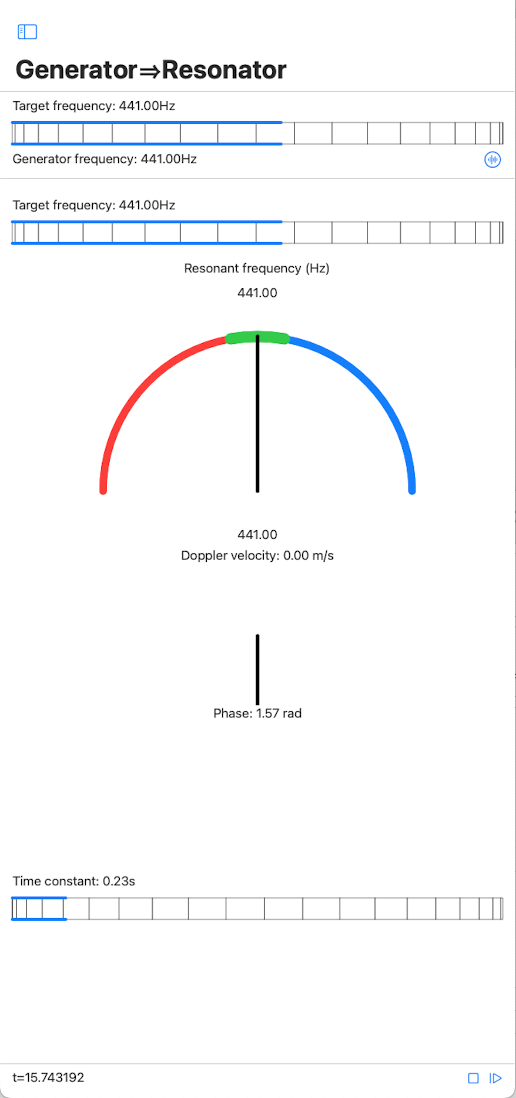
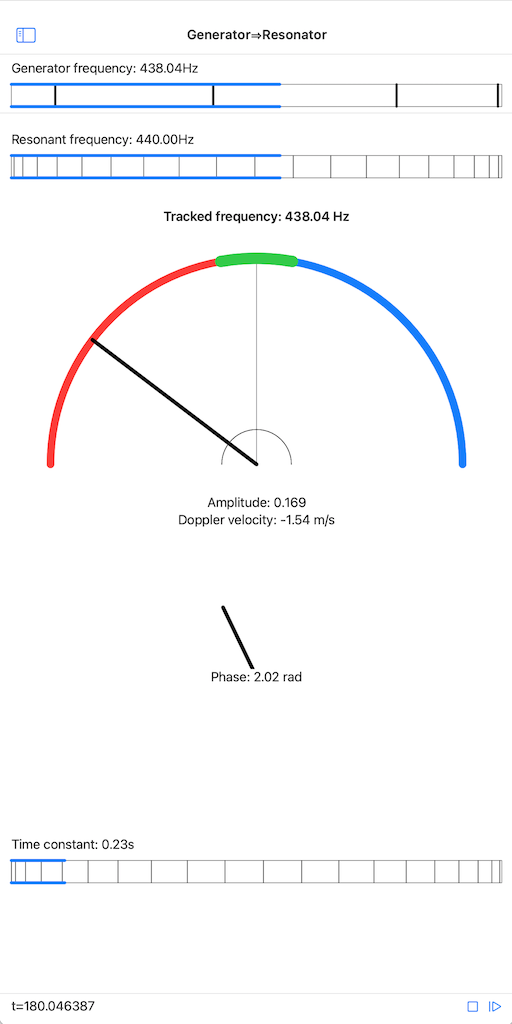
Updates for Oscillators 3.0 (#12)
* Update screenshots for user guide

* Update Oscillators user guide for version 3.0

diff --git a/Oscillators/index.md b/Oscillators/index.md
@@ -7,17 +7,14 @@ description: by Alexandre R.J. François
 <img src="assets/images/oscillators.png" alt="Oscillators" width="160"/>
 
 <a href="https://apps.apple.com/us/app/oscillators/id1641353759" style="margin-left: auto; margin-right: auto;">
-<img border="0" width="200" src="/assets/images/Download_on_the_App_Store_Badge_US-UK_RGB_blk_092917.svg" width="160" />
+<img border="0" src="/assets/images/Download_on_the_App_Store_Badge_US-UK_RGB_blk_092917.svg" width="160" />
 </a>
 
 </td>
 <td>
-Oscillators offers educational tools for experimenting with digital resonators.
+Oscillators offers educational tools for experimenting with digital resonators, especially in the context of audio analysis.
 This app particularly encourages live experimentation with microphone input.
 </td></tr></table>
-
-**By design, the oscillators in this app can only be tuned to frequencies that correspond to a period length that is a multiple of the sample duration (dictated by the sampling rate of the signal).**
-For example, for a sampling rate of 44.1kHz, an oscillator (generator or resonator) can be tuned exactly at 441Hz. However, if the requested frequency is for example 440Hz, the oscillator will be tuned to the closest frequency meeting the requirements, in this case 441Hz.
 
 ## Demonstrations
 
@@ -27,27 +24,35 @@ For example, for a sampling rate of 44.1kHz, an oscillator (generator or resonat
 
 ## User Guide
 
-Version 2.1 - Resonator Banks: spectrogram, frequency analysis, dynamics analysis.
+Version 3.0
 
-<img src="assets/images/menu.png" alt="Oscillators menu" width="300"/>
+<table align="left" cellpadding="0" cellspacing="0" style="margin-left: auto; margin-right: auto; text-align: left;"><tr><td>
+<img src="assets/images/menu.png" alt="Oscillators menu" width="512"/>
+
+</td>
+<td>
 
 ### Quick Start
 
 1. Start the app and allow access to the microphone when prompted (needed for live sound processing)
-2. Tap on "Spectrogram" or "Frequency Analysis" to navigate to a live input screen.
+2. Tap on "Spectrogram" or "Frequency analysis" to navigate to a live input screen.
 3. Play some music (or sing?) and see what happens.
 
 The app offers a number of tools, some use live microphone input, some are offline experiments. Each tool is described below.
 
+This app demonstrates the most significant features of the open source [Oscillators](https://github.com/alexandrefrancois/Oscillators) Swift package: efficient implementations of sinusoidal resonators tuned at arbitrary frequencies, and banks of such resonators, with vectorized SIMD accelerated implementation.
+
 The app makes use of a new [Wheel Control](https://github.com/alexandrefrancois/WheelControl) for setting floating point values within a range. This control is designed to afford finer precision than the traditional slider bar by utilizing a "wheel with gears" metaphore: drag the wheel to adjust the value, double-tap on the wheel to cycle through the gears/speeds.
+
+</td></tr></table>
 
 ### Live
 
-Live audio processing tools, use the microphone as input. This requires running on a device that has at least one microphone / audio input. On any live screen, tap on the gear icon in the top right to open the corresponding settings sheet, which lists available audio input devices and allows to select the one to use. 
+Live audio processing tools, use the microphone as input. This requires running on a device that has at least one microphone / audio input. On any live screen, tap on the gear icon in the top right to open the corresponding settings sheet, which lists available audio input devices and allows to select which one to use. 
 
 #### Spectrogram
 
-The spectrogram plots the amplitude levels of the resonators in a resonator bank over time. The resonators in the bank are tuned to natural frequencies based on human auditory perception and organized from lowest to highest frequency (Gradient Frequency bank).
+The spectrogram plots the amplitude levels of the resonators in a resonator bank over time. The resonators in the bank are tuned to natural frequencies in the human auditory perception range and organized from lowest to highest frequency (Gradient Frequency bank).
 
 <img src="assets/images/spectrogram.png" alt="Spectrogram" width="300"/>
 
@@ -66,7 +71,7 @@ Adjust with the wheel control (drag the wheel to adjust the value, double-tap on
 
 #### Frequency Analysis
 
-For frequency analysis, the resonators in the bank are tuned to natural frequencies based on human auditory perception and organized from lowest to highest frequency (Gradient Frequency bank).
+For frequency analysis, the resonators in the bank are tuned to natural frequencies in the human auditory perception range and organized from lowest to highest frequency (Gradient Frequency bank).
 
 <img src="assets/images/frequency-analysis.png" alt="Frequency analysis" width="300"/>
 
@@ -94,9 +99,7 @@ For dynamics analysis, all resonators in the bank are tuned to the same frequenc
 
 The amplitude graph plots the current amplitude of each resonator in the bank. The resonators are ordered by increasing time constant value from left to right on the horizontal axis.
 
-**Target frequency**: the *desired* resonant frequency, adjust with the wheel control (drag the wheel to adjust the value, double-tap on the wheel to cycle through the gears/speeds).
-
-**Resonant frequency**: the *actual* resonant frequency, i.e. the closest frequency that corresponds to a period length that is a multiple of the sample duration (dictated by the sampling rate of the signal).
+**Resonant frequency**: the resonant frequency of the resonators.
 
 **Peak**: the current maximum amplitude value across the resonators in the bank.
 
@@ -110,19 +113,17 @@ Adjust with the wheel control (drag the wheel to adjust the value, double-tap on
 
 #### Resonator
 
-The audio signal from the microphone is fed to a resonator. This tool offers a visualization of the resonator's amplitude for all phases, an estimate of the observed frequency, and the corresponding Doppler velocity (assuming a source that emits a signal at the resonator's resonant frequency).
+The audio signal from the microphone is fed to a resonator. This tool offers a visualization of the resonator's amplitude, the phase between the resonator sinusoid and the input's signal when resonnance occurs, an estimate of the observed frequency from the observed phase drift, and the Doppler velocity correspopnding to the difference between resonant and tracked frequencies, assuming a source that emits a signal at the resonator's resonant frequency.
 
 <img src="assets/images/resonator.png" alt="Resonator tool" width="300"/>
 
-**Target frequency**: the *desired* resonant frequency, adjust with the wheel control (drag the wheel to adjust the value, double-tap on the wheel to cycle through the gears/speeds).
-
-**Resonant frequency**: the *actual* resonant frequency of the oscillator, i.e. the closest frequency that corresponds to a period length that is a multiple of the sample duration (dictated by the sampling rate of the signal).
+**Resonant frequency**: the resonant frequency of the resonator.
 
 **Tracked frequency**: an estimate of the frequency present in the input signal that causes the resonance; most meaningful in the case of a single frequency signal.
 
 **Doppler velocity**: the Doppler velocity estimated from the difference between the resonant frequency and the observed frequency. A negative value means the observer and source are getting closer.
 
-**Phase**: the estimated phase difference between the input signal and the resonator.
+**Phase**: the estimated phase difference between the input signal and the resonator's sinusoid.
 
 **Time constant**: the parameter that regulates the dynamics of the low-pass filter through which individual contributions from each audio sample are accumulated over time in the resonator. The shorter the time constant the more reactive the resonator. Adjust with the wheel control (drag the wheel to adjust the value, double-tap on the wheel to cycle through the gears/speeds).
 
@@ -140,17 +141,15 @@ Feed the output of a generator to a resonator. This is an offline simulation tha
 
 <img src="assets/images/generator-resonator.png" alt="Generator to resonator tool" width="300"/>
 
-**Generator frequency**: the *desired* generator frequency, adjust with the wheel control (drag the wheel to adjust the value, double-tap on the wheel to cycle through the gears/speeds).
+**Generator frequency**: the generator frequency, adjust with the wheel control (drag the wheel to adjust the value, double-tap on the wheel to cycle through the gears/speeds). The generator produces a sinusoidal signal.
 
-**Actual**: the *actual* generator frequency, i.e. the closest frequency that corresponds to a period length that is a multiple of the sample duration (dictated by the sampling rate of the signal).
+**Resonator frequency**: the resonant frequency of the resonator, adjust with the wheel control (drag the wheel to adjust the value, double-tap on the wheel to cycle through the gears/speeds).
 
-**Generator waveform**: tap on the gear icon to show/hide the waveform graph and selection buttons: Square, Triangle, Saw, Sine or Silence.
+**Tracked frequency**: an estimate of the frequency of the sinusoid signal produced by the generator.
 
-**Resonator frequency**: the *desired* resonant frequency, adjust with the wheel control (drag the wheel to adjust the value, double-tap on the wheel to cycle through the gears/speeds).
+**Doppler velocity**: the Doppler velocity estimated from the difference between the resonant frequency and the observed frequency. A negative value means the observer and source are getting closer.
 
-**Gauge display**: the *actual* resonant frequency, i.e. the closest frequency that corresponds to a period length that is a multiple of the sample duration (dictated by the sampling rate of the signal).
-
-**Phase**: the estimated phase difference between the input signal and the resonator. This quantity is constant if the generated signal's frequency is equal to the resonator's resonant frequency. If the frequency of the generated signal is close to that of the resonance frequency of the oscillator, the rate of change in the estimated phase difference can be used to compute the exact frequency of the generated signal. 
+**Phase**: the estimated phase difference between the input signal and the resonator's sinusoid. This quantity is constant if the generated signal's frequency is equal to the resonator's resonant frequency. If the frequency of the generated signal is close to that of the resonance frequency of the resonator, the rate of change in the estimated phase difference can be used to compute the exact frequency of the generated signal ("tracked frequency"). 
 
 **Time constant**: the parameter that regulates the dynamics of the low-pass filter through which individual contributions from each audio sample are accumulated over time in the resonator. The shorter the time constant the more reactive the resonator. Adjust with the wheel control (drag the wheel to adjust the value, double-tap on the wheel to cycle through the gears/speeds).
 
@@ -159,14 +158,21 @@ Feed the output of a generator to a resonator. This is an offline simulation tha
 
 The live tools feature dedicated Setting sheets, accessed via the gear icon in the top right of the screen.
 
+Resonator settings:
+
 <img src="assets/images/resonator-settings.png" alt="Resonator settings" width="300"/>
+
+Resonator bank settings:
+
 <img src="assets/images/resonator-bank-settings.png" alt="Resonator Bank settings" width="300"/>
 
 **Implementation selection**: resonators and resonator banks come in Swift and C++ implementations, for direct performance comparison.
 
-**Update heuristic**: The resonator banks offer three update functions:
+**Update model**: The resonator banks offer two update models (for the non-vectorized implementation):
 - Sequential: calls the update function for each resonator sequentially
 - Concurrent: calls update for each resonator concurrently, with update calls grouped in a fixed number of concurrent tasks
+
+The vectorized implementation performs updates in parallel, levaraging the SIMD architecture where available. 
 
 **Performance measurements**:
 - Processing time per sample (in ns): the average time taken to process one audio sample
@@ -182,6 +188,7 @@ Fun with Oscillator does not collect or share your personal information. In part
 ## Credits
 
 Oscillators Copyright 2022-2024 Alexandre R. J. François.
- 
+
+- Oscillators demonstrates the most significant features of the open source [Oscillators](https://github.com/alexandrefrancois/Oscillators) Swift package.
 - Oscillators gratefully uses [AudioKit v5](https://github.com/AudioKit/AudioKit) for audio input.
 - Oscillators uses [Wheel Control](https://github.com/alexandrefrancois/WheelControl) to afford better precision than the standard slider when adjusting a value within a range.
